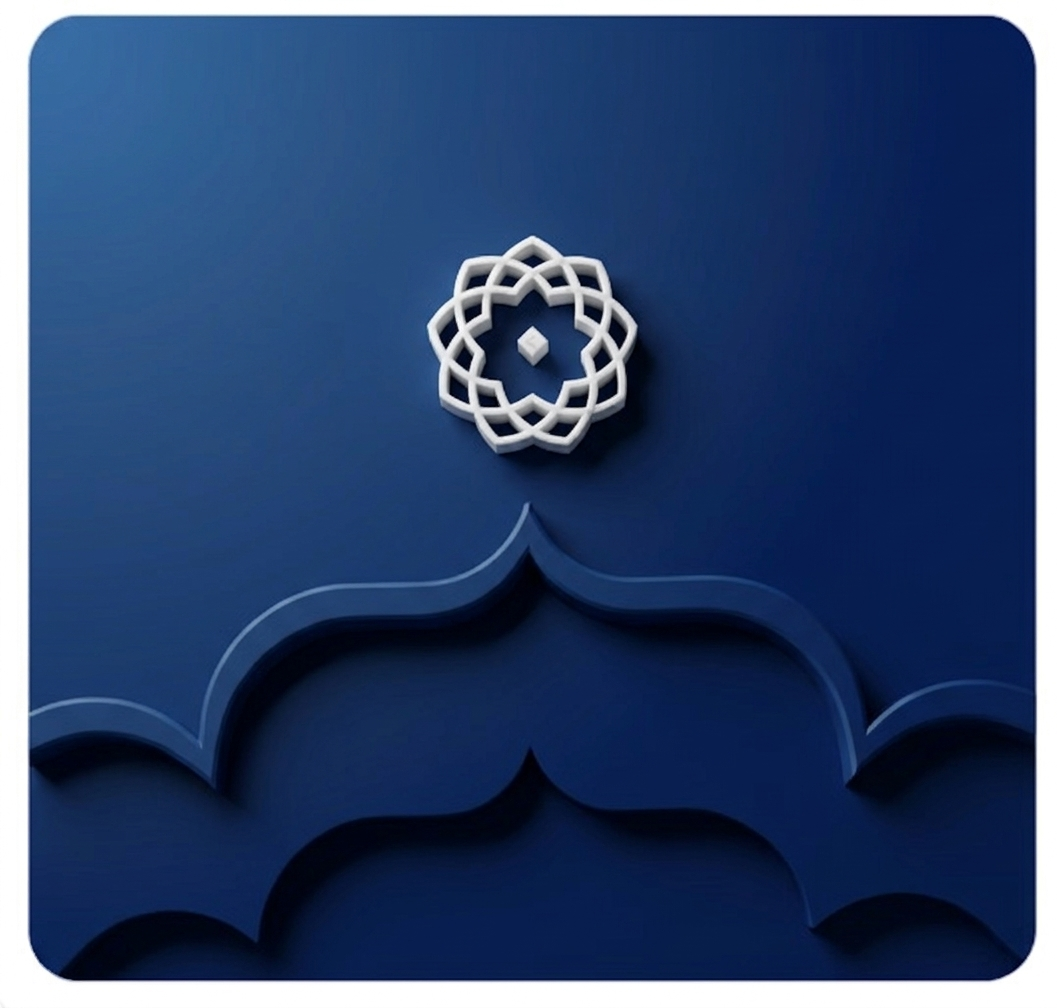
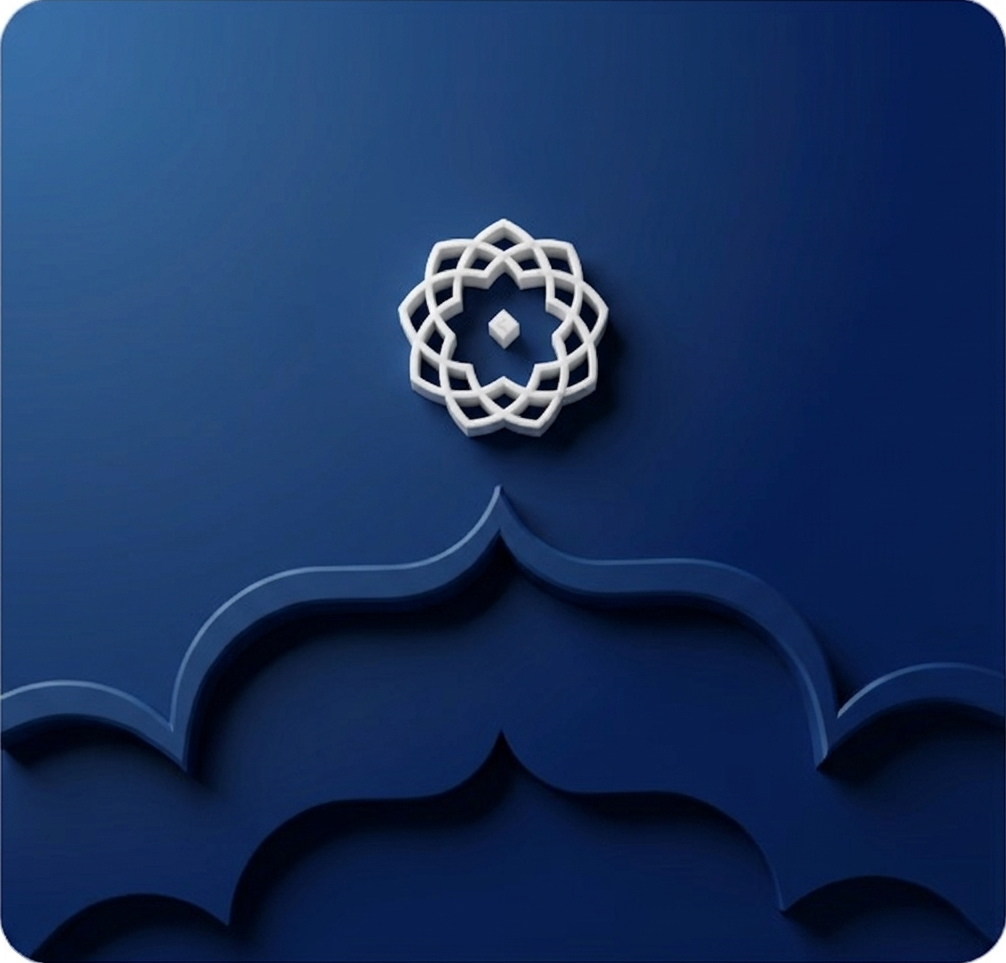
made scale card changes

diff --git a/src/pages/Home.tsx b/src/pages/Home.tsx
@@ -546,62 +546,73 @@ const AIFirstFutureSection = () => (
    Section VI: Population-scale Applications
    ───────────────────────────────────────────── */
 const PopulationScaleSection = () => (
-  <section className="bg-white py-24 sm:py-32">
-    <div className="mx-auto max-w-[1440px] px-6 sm:px-8">
-      <div className="grid items-center gap-12 lg:grid-cols-2 lg:gap-20">
-        <Reveal direction="left">
-          <div className="relative">
-            <div className="relative overflow-hidden rounded-3xl bg-gradient-to-br from-[#D4AF37] via-[#D4AF37]/85 to-[#001F3F] p-12 shadow-diffused-lg sm:p-16">
-              <div className="absolute inset-0 bg-gradient-to-br from-white/10 via-transparent to-white/5" />
-              <div className="relative flex items-center justify-center">
-                <div className="flex h-48 w-48 rotate-45 items-center justify-center rounded-3xl bg-white/30 backdrop-blur-sm sm:h-64 sm:w-64">
-                  <div className="h-32 w-32 rounded-2xl bg-white/40 sm:h-44 sm:w-44" />
+  <section className="relative overflow-hidden bg-[#F9FAFB] py-24 sm:py-32">
+    <div className="pointer-events-none absolute inset-0">
+      <div className="absolute -left-28 top-1/4 h-[380px] w-[380px] rounded-full bg-gradient-to-br from-[#D4AF37]/10 to-transparent blur-3xl" />
+      <div className="absolute -right-20 bottom-0 h-[320px] w-[320px] rounded-full bg-gradient-to-tl from-[#001F3F]/8 to-transparent blur-3xl" />
+    </div>
+    <div className="relative mx-auto max-w-[1440px] px-6 sm:px-8">
+      <Reveal>
+        <div className="mx-auto max-w-4xl text-center">
+          <p className="mb-6 flex flex-wrap items-center justify-center gap-x-3 gap-y-2 font-mono text-[10px] font-semibold uppercase tracking-[0.24em] text-[#001F3F]/45 sm:text-[11px] sm:tracking-[0.22em]">
+            <span>For enterprises</span>
+            <span className="hidden text-[#001F3F]/25 sm:inline" aria-hidden>
+              |
+            </span>
+            <span className="h-1 w-1 rounded-full bg-[#D4AF37] sm:hidden" aria-hidden />
+            <span>Government</span>
+            <span className="hidden text-[#001F3F]/25 sm:inline" aria-hidden>
+              |
+            </span>
+            <span className="h-1 w-1 rounded-full bg-[#D4AF37] sm:hidden" aria-hidden />
+            <span>Developers</span>
+          </p>
+          <h2 className="font-serif text-3xl font-bold leading-tight tracking-tight text-[#001F3F] sm:text-4xl md:text-[2.75rem] md:leading-[1.12]">
+            Full-Stack Sovereign AI Platform
+          </h2>
+        </div>
+      </Reveal>
+
+      <Reveal delay={0.1}>
+        <div className="mx-auto mt-12 max-w-5xl rounded-[2rem] border border-[#001F3F]/[0.06] bg-white p-6 shadow-diffused-lg sm:mt-14 sm:p-8 md:p-10 lg:rounded-[2.25rem]">
+          <div className="grid items-center gap-10 lg:grid-cols-[minmax(0,1fr)_minmax(0,1.15fr)] lg:gap-12">
+            <div className="relative mx-auto w-full max-w-md lg:mx-0 lg:max-w-none">
+              <div className="relative aspect-square overflow-hidden rounded-2xl border border-[#001F3F]/[0.05] shadow-inner sm:rounded-[1.35rem]">
+                <div className="absolute inset-0 bg-gradient-to-b from-[#EA7A2F] via-[#F0B98A] to-[#DDD6F5]" />
+                <div className="absolute inset-0 bg-gradient-to-t from-white/[0.12] via-transparent to-white/20" />
+                <div className="relative flex h-full w-full items-center justify-center p-10 sm:p-14">
+                  <div
+                    className="relative flex h-[min(56vw,14rem)] w-[min(56vw,14rem)] items-center justify-center sm:h-56 sm:w-56 md:h-64 md:w-64"
+                    aria-hidden
+                  >
+                    <div className="absolute h-[78%] w-[78%] rotate-45 rounded-[1.75rem] border border-white/45 bg-white/20 shadow-[0_8px_32px_rgba(0,31,63,0.08)] backdrop-blur-xl" />
+                    <div className="absolute h-[48%] w-[48%] rotate-45 rounded-xl border border-white/35 bg-white/15 backdrop-blur-md" />
+                  </div>
                 </div>
               </div>
-              <div className="absolute right-4 top-4 flex items-center gap-2 rounded-full bg-white/20 px-3 py-1.5 backdrop-blur-md">
-                <Globe2 className="h-3.5 w-3.5 text-white" />
-                <span className="font-mono text-[10px] font-semibold uppercase tracking-wider text-white">
-                  Population-scale
-                </span>
+            </div>
+
+            <div>
+              <h3 className="font-serif text-xl font-bold text-[#001F3F] sm:text-2xl md:text-[1.65rem]">
+                Population-scale Applications
+              </h3>
+              <div className="mt-6 space-y-5 text-sm leading-relaxed text-[#001F3F]/60 sm:text-base sm:leading-[1.65]">
+                <p>
+                  Building products <strong className="font-semibold text-[#001F3F]">World</strong>{" "}
+                  can use.
+                </p>
+                <p>
+                  Conversational agents fluent in{" "}
+                  <strong className="font-semibold text-[#001F3F]">every</strong> languages.
+                </p>
+                <p>
+                  Platforms that run enterprise workflows from start to finish.
+                </p>
               </div>
             </div>
           </div>
-        </Reveal>
-
-        <Reveal delay={0.15} direction="right">
-          <div>
-            <p className="font-mono text-xs font-semibold uppercase tracking-[0.2em] text-[#D4AF37]">
-              Scale of Ambition
-            </p>
-            <h2 className="mt-4 font-serif text-3xl font-bold leading-tight text-[#001F3F] sm:text-4xl md:text-[2.75rem]">
-              Population-scale{" "}
-              <span className="italic">applications.</span>
-            </h2>
-            <p className="mt-6 text-base leading-relaxed text-[#001F3F]/60 sm:text-lg">
-              Building products the world can use. Conversational agents fluent in
-              every language. Platforms that run enterprise workflows from start to
-              finish — no hand-offs, no dropped context, no stitched-together hacks.
-            </p>
-
-            <div className="mt-8 grid grid-cols-3 gap-4 border-t border-[#001F3F]/[0.08] pt-6">
-              {[
-                { value: "120+", label: "Languages" },
-                { value: "10M+", label: "Interactions/mo" },
-                { value: "24/7", label: "Live coverage" },
-              ].map((s) => (
-                <div key={s.label}>
-                  <p className="font-mono text-2xl font-bold text-[#001F3F] sm:text-3xl">
-                    {s.value}
-                  </p>
-                  <p className="mt-1 font-mono text-[10px] uppercase tracking-wider text-[#001F3F]/40">
-                    {s.label}
-                  </p>
-                </div>
-              ))}
-            </div>
-          </div>
-        </Reveal>
-      </div>
+        </div>
+      </Reveal>
     </div>
   </section>
 );
